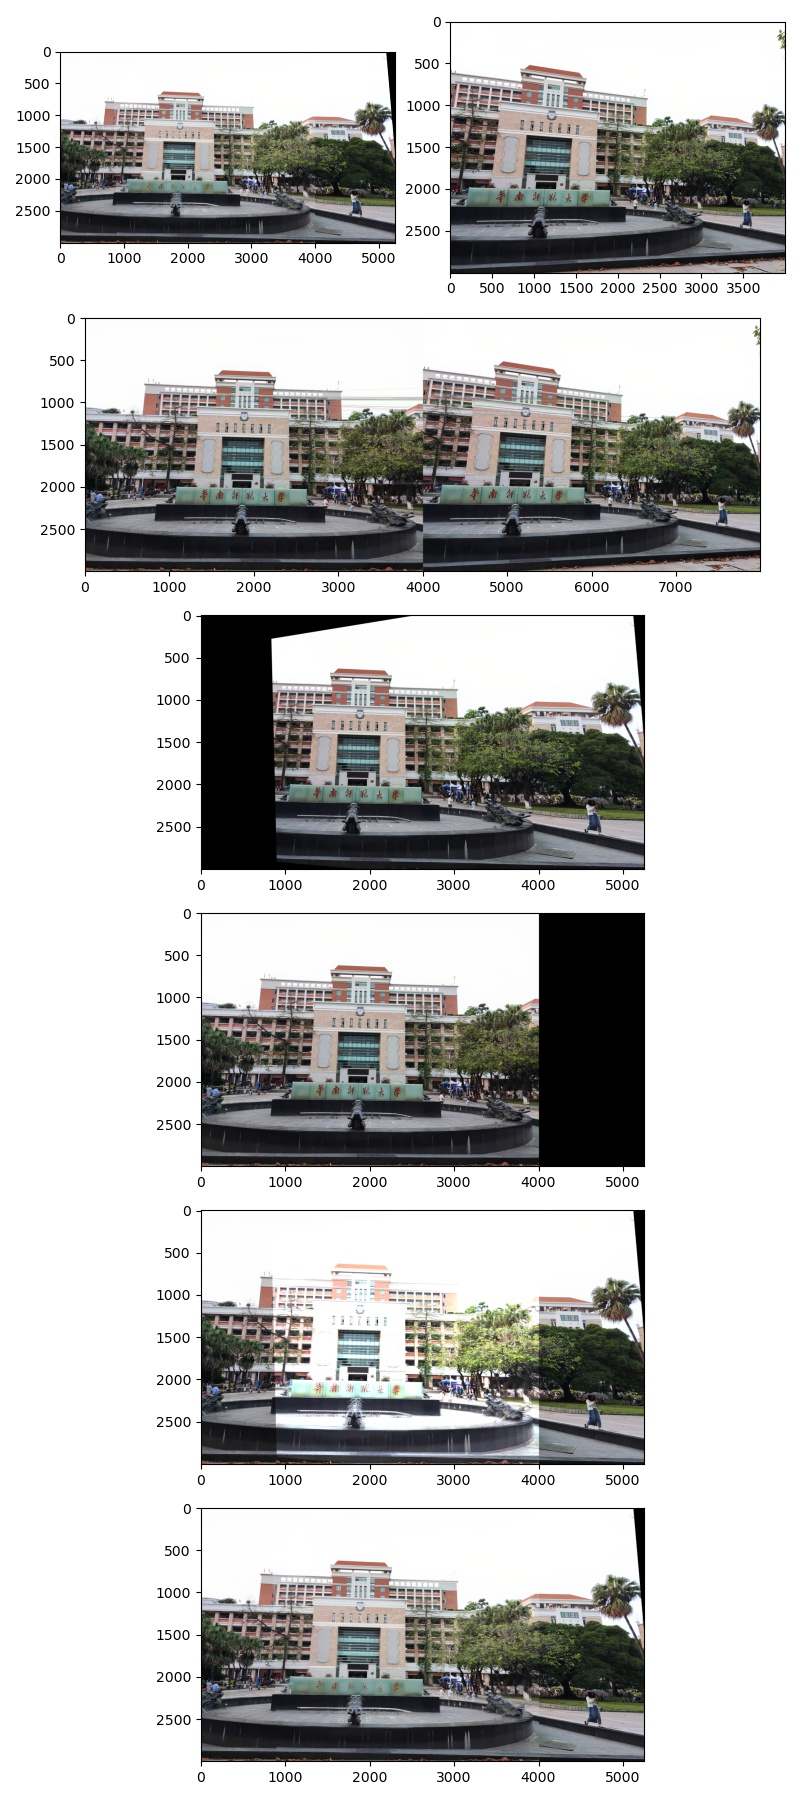
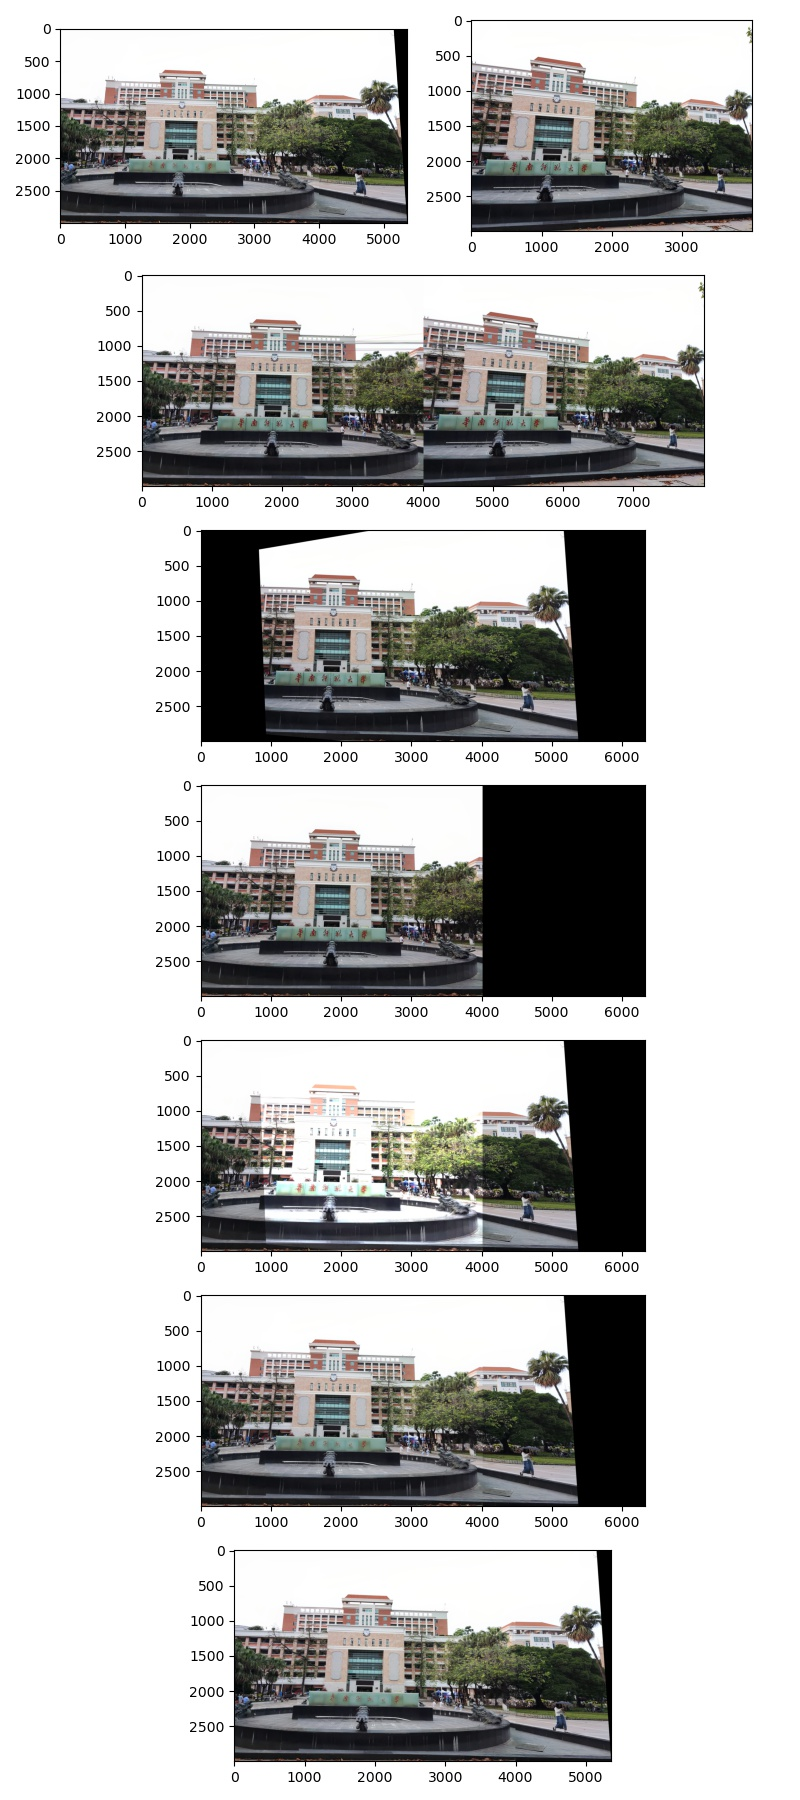
Update

diff --git a/ImageStitching.py b/ImageStitching.py
@@ -4,6 +4,7 @@ from matplotlib import pyplot as plt
 import matplotlib.gridspec as gridspec
 import os
 from tqdm import tqdm
+from RemoveBlackEdge import remove_black_edge
 
 # set up the good_point_limited
 GOOD_POINTS_LIMITED = 0.99
@@ -33,6 +34,9 @@ img_src = images[0]
 # the image need to stitch
 for i in tqdm(range(1, len(images))):
     img_dst = images[i]
+    # make sure to merge from left to right
+    if i % 2 == 0:
+        img_src, img_dst = img_dst, img_src
 
     # detects keypoints and computes the descriptors
     orb = cv.ORB_create()
@@ -77,12 +81,15 @@ for i in tqdm(range(1, len(images))):
 
     dst_target = np.maximum(dst1, img_transform)
 
+    # remove black edge
+    dst_target_removed = remove_black_edge(dst_target)
+
     # use dst_target as the source image
-    img_src = dst_target
+    img_src = dst_target_removed
 
     # show all images
     fig = plt.figure(tight_layout=True, figsize=(8, 18))
-    gs = gridspec.GridSpec(6, 2)
+    gs = gridspec.GridSpec(7, 2)
 
     ax = fig.add_subplot(gs[0, 0])
     ax.imshow(img_src[:, :, ::-1])
@@ -104,6 +111,9 @@ for i in tqdm(range(1, len(images))):
 
     ax = fig.add_subplot(gs[5, :])
     ax.imshow(dst_target[:, :, ::-1])
+
+    ax = fig.add_subplot(gs[6, :])
+    ax.imshow(dst_target_removed[:, :, ::-1])
 
     plt.savefig(output_path + 'panorama_processing_{}.jpg'.format(i))
 

diff --git a/RemoveBlackEdge.py b/RemoveBlackEdge.py
@@ -1,0 +1,36 @@
+import cv2 as cv
+
+
+def remove_black_edge(image):
+    # median filter, to remove the noise interference that may be contained in the black edge
+    img = cv.medianBlur(image, 5)
+    # adjust crop effect
+    b = cv.threshold(img, 15, 255, cv.THRESH_BINARY)
+    binary_image = b[1]
+    binary_image = cv.cvtColor(binary_image, cv.COLOR_BGR2GRAY)
+
+    x = binary_image.shape[0]
+    y = binary_image.shape[1]
+    edges_x = []
+    edges_y = []
+    for i in range(x):
+        for j in range(y):
+            if binary_image[i][j] == 255:
+                edges_x.append(i)
+                edges_y.append(j)
+
+    left = min(edges_x)
+    right = max(edges_x)
+    width = right - left
+    bottom = min(edges_y)
+    top = max(edges_y)
+    height = top - bottom
+
+    pre1_picture = image[left:left + width, bottom:bottom + height]
+    return pre1_picture
+
+
+if __name__ == '__main__':
+    image = cv.imread('images/output/panorama.jpg')
+    new_image = remove_black_edge(image)
+    cv.imwrite('images/output/' + 'new_panorama.jpg', new_image)
